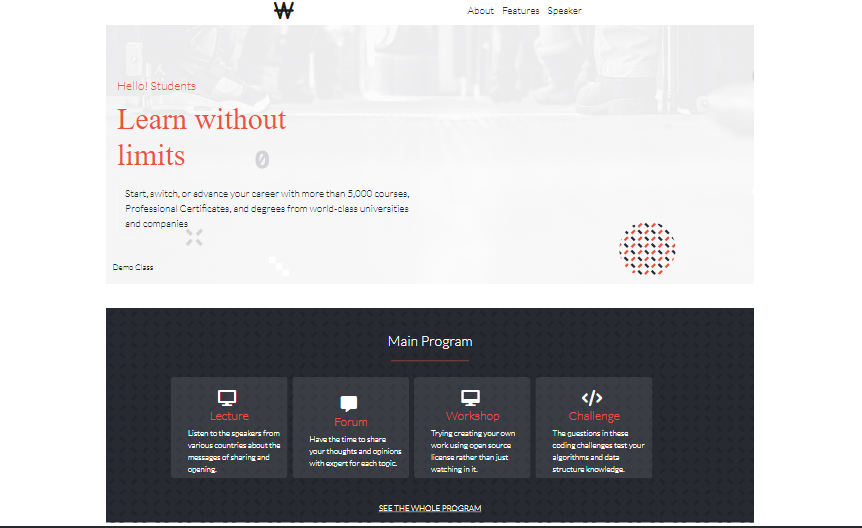
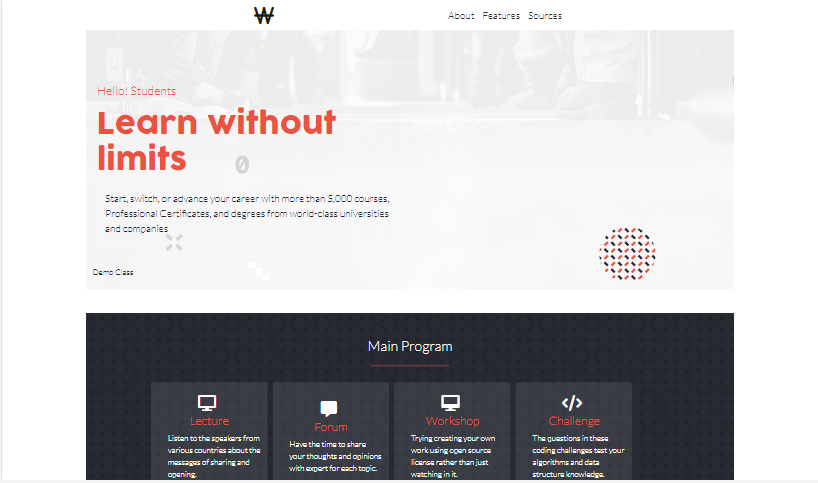
Changes in javascript object

diff --git a/script.js b/script.js
@@ -1,39 +1,39 @@
 const featureDetials = [
     {
-        image: 'images/YB.jpg',
-        name: 'Yochai Berkman',
-        post: 'Berkman Professor of Entrepreneurial legal studies at arvard law of school',
-        description: 'Benkler studied commons-based peer production, and published his seminal book The Wealth ofNetworks in 2006.'
+        image: 'images/I1.jpg',
+        name: 'Edureka',
+        post: 'YouTube Channel',
+        description: 'Edureka is online Youtube Channel which has Web Devlopment and many other courses videos'
     }
     , {
-        image: 'images/Chon_Kilnam.jpg',
-        name: 'Kilnam Chon',
-        post: '',
-        description: 'Kilnam Chon helped bring the internet to asia and is an outspoken advocate for the open web and digital common.In 2012,he was inducted to an inauguaral class of internet society(ISOC) ITERNET HALL OF FAME.'
+        image: 'images/I2.jpg',
+        name: 'Oniline Tutorials',
+        post: 'YouTube Channel',
+        description: 'Oniline Tutorials is online Youtube Channel which has Web Devlopment mainly focus on Css.'
     }
     , {
-        image: 'images/SohY.jpg',
-        name: 'SohYeong Noh',
-        post: 'Director of Art Centre Nobi and the board member of Korea',
-        description: 'As the main venue of the media art production in korea ,Nabi promotes crosss disciplinary collabration and understanding among Science technology ,humanities and art.'
+        image: 'images/I3.webp',
+        name: 'Web Dev Simplified',
+        post: 'YouTube Channel',
+        description: 'Web Dev Simplified  is online Youtube Channel which has Web Devplopment CSS videos.'
     }
     , {
-        image: 'images/julia.jpg',
-        name: 'Julia Leda',
-        post: 'President of Young Pirates of Europe',
-        description: 'Eureopen ingetration,Politiczal democracy and participation of the Youth through oniline as her major condem,Reda\'s report ouding political changes to EU copywrite law was approved by the parliament in July.'
+        image: 'images/I4.png',
+        name: 'Udemy',
+        post: 'Online Website',
+        description: 'Udemy is online Website  which has Web Devlopment and many other courses videos with lectures and notes.'
     }
     , {
-        image: 'images/lila.jpg',
-        name: 'Lila Tretikov',
-        post: 'Executive Director of the Wikimedia Foundation',
-        description: 'Lila Tretikov is the Executive Director of the Wikimedia Foundation,the nonprofit organizaton that operates wikipedia.Wikipedia is freely available in 290 languges and used by nearly half a million people around the world every month.'
+        image: 'images/I5.png',
+        name: 'Skill Share',
+        post: 'Online Website',
+        description: 'Skill share  is online Website which has Web Devlopment and many other courses videos and lectures.'
     }
     , {
-        image: 'images/ryan.jpg',
-        name: 'Ryan Merkley',
-        post: 'CEO of Commons,ex COO of the Mozilla Foundation',
-        description: 'Ryan has been leading open source projects at Mozilla Foundation such as the open source movement.'
+        image: 'images/I6.png',
+        name: 'Coursea',
+        post: 'Online Website',
+        description: 'Coursea is online Website which has Web Devlopment and many other courses videos and lecture with Notes.'
     }
 ]
 

diff --git a/index.html b/index.html
@@ -27,7 +27,7 @@
           </li>
           <li class="nav-item"><a class="nav-link" href="#Cards">Features</a>
           </li>
-          <li class="nav-item"><a class="nav-link" href="#feature">Speaker</a>
+          <li class="nav-item"><a class="nav-link" href="#feature">Sources</a>
           </li>
         </ul>
       </div>

diff --git a/README.md b/README.md
@@ -1,5 +1,5 @@
-# PORTFOLIO
-MAKING A PORTFOLIO
+# Web Development
+Making a Web Development Course Website
 
 ### User Interface
  ![Project Image](images/website.png)
